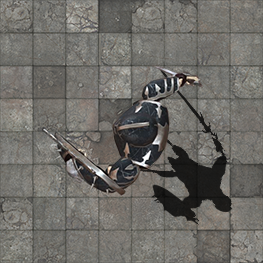
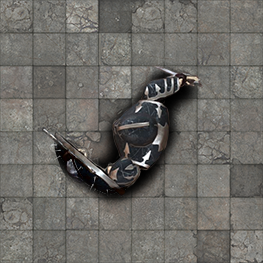
feat: player location and map fill.
Now the game view displays the contents of the api. All the players (including local itself) and objects are shown with its corresponding orientation.

Changed region(s): [[0.1825, 0.2433, 0.8821, 0.8517]]

diff --git a/js/apiCalls.js b/js/apiCalls.js
@@ -1,4 +1,6 @@
 let player = new Player();
+let map = new Array(40).fill(0).map(() => new Array(40).fill(0));  //0: nothing, 1: enemy, 2: object, 3: wall
+let map_direction = new Array(40).fill("-").map(() => new Array(40).fill("-"));  //-: no player
 
 async function fetchSpawn(name) {
     await fetch("http://battlearena.danielamo.info/api/spawn/b89f9719/" + name)
@@ -7,6 +9,8 @@ async function fetchSpawn(name) {
             player.id = data.token;
             player.name = name;
             fetchPlayer(player.id);
+        }).then(() => {
+            console.log("player token attack is: " + player.attack)
         });
 }
 
@@ -22,18 +26,109 @@ function fetchPlayer(token) {
             player.vp = data.vitalpoints;
             player.image = data.image;
             player.object = data.object;
+        }).then(() => {
+            fetchMap(token);
         });
 }
 
-async function fetchh(name) {
-    await fetch("http://battlearena.danielamo.info/api/spawn/b89f9719/" + name)
-        .then(function (response) {
-            if (response.status !== 200) {
-                throw new Error(response.status);
-            }else{
-                console.log(response.json());
-            }
-        })
+function fetchMap(token) {
+    return fetch("http://battlearena.danielamo.info/api/map/b89f9719/" + token)
+        .then(response => response.json())
+        .then(data => {
+            data.enemies.forEach((item) => {
+                let x = item.x;
+                let y = item.y;
+                map[x][y] = 1;
+                map_direction[x][y] = item.direction;
+            });
+            data.objects.forEach((item) => {
+                map[item.x][item.y] = 2;
+            });
+            updateGameView();
+        });
+}
+
+function updateGameView(){
+    let top_left = document.getElementById("top_left");
+    let top_center = document.getElementById("top_center");
+    let top_right = document.getElementById("top_right");
+
+    let center_left = document.getElementById("center_left");
+    let center_center = document.getElementById("center_center");
+    let center_right = document.getElementById("center_right");
+
+    let bottom_left = document.getElementById("bottom_left");
+    let bottom_center = document.getElementById("bottom_center");
+    let bottom_right = document.getElementById("bottom_right");
+
+    center_center.setAttribute("style", 'background-image: url("assets/options/character.png");background-repeat: no-repeat;background-size: 101%;transform:rotate('+ orientationFactor(player.direction) +'deg);');
+    //document.querySelector("html").setAttribute("style", 'background-image: url("../assets/options/enemy.png");background-repeat: no-repeat;background-size: 101%;');
+
+    if(map[player.x-1][player.y-1] === 1){
+        top_left.setAttribute("style", 'background-image: url("assets/options/enemy.png");background-repeat: no-repeat;background-size: 101%;transform:rotate('+ orientationFactor(map_direction[player.x-1][player.y-1]) +'deg);');
+    } else if(map[player.x-1][player.y-1] === 2){
+        top_left.setAttribute("style", 'background-image: url("assets/options/loot.png");background-repeat: no-repeat;background-size: 101%;');
+    } else {
+        top_left.setAttribute("style", 'background-image: url("assets/options/nothing.png");background-repeat: no-repeat;background-size: 101%;');
+    }
+
+    if(map[player.x-1][player.y] === 1){
+        top_center.setAttribute("style", 'background-image: url("assets/options/enemy.png");background-repeat: no-repeat;background-size: 101%;transform:rotate('+ orientationFactor(map_direction[player.x-1][player.y]) +'deg);');
+    } else if(map[player.x-1][player.y] === 2){
+        top_center.setAttribute("style", 'background-image: url("assets/options/loot.png");background-repeat: no-repeat;background-size: 101%;');
+    } else {
+        top_center.setAttribute("style", 'background-image: url("assets/options/nothing.png");background-repeat: no-repeat;background-size: 101%;');
+    }
+
+    if(map[player.x-1][Number(player.y)+1] === 1){
+        top_right.setAttribute("style", 'background-image: url("assets/options/enemy.png");background-repeat: no-repeat;background-size: 101%;transform:rotate('+ orientationFactor(map_direction[player.x-1][Number(player.y)+1]) +'deg);');
+    } else if(map[player.x-1][Number(player.y)+1] === 2){
+        top_right.setAttribute("style", 'background-image: url("assets/options/loot.png");background-repeat: no-repeat;background-size: 101%;');
+    } else {
+        top_right.setAttribute("style", 'background-image: url("assets/options/nothing.png");background-repeat: no-repeat;background-size: 101%;');
+    }
+
+
+    if(map[player.x][player.y-1] === 1){
+        center_left.setAttribute("style", 'background-image: url("assets/options/enemy.png");background-repeat: no-repeat;background-size: 101%;transform:rotate('+ orientationFactor(map_direction[player.x][player.y-1]) +'deg);');
+    } else if(map[player.x][player.y-1] === 2){
+        center_left.setAttribute("style", 'background-image: url("assets/options/loot.png");background-repeat: no-repeat;background-size: 101%;');
+    } else {
+        center_left.setAttribute("style", 'background-image: url("assets/options/nothing.png");background-repeat: no-repeat;background-size: 101%;');
+    }
+
+    if(map[player.x][Number(player.y)+1] === 1){
+        center_right.setAttribute("style", 'background-image: url("assets/options/enemy.png");background-repeat: no-repeat;background-size: 101%;transform:rotate('+ orientationFactor(map_direction[player.x][Number(player.y)+1]) +'deg);');
+    } else if(map[player.x][Number(player.y)+1] === 2){
+        center_right.setAttribute("style", 'background-image: url("assets/options/loot.png");background-repeat: no-repeat;background-size: 101%;');
+    } else {
+        center_right.setAttribute("style", 'background-image: url("assets/options/nothing.png");background-repeat: no-repeat;background-size: 101%;');
+    }
+
+
+    if(map[Number(player.x)+1][player.y-1] === 1){
+        bottom_left.setAttribute("style", 'background-image: url("assets/options/enemy.png");background-repeat: no-repeat;background-size: 101%;transform:rotate('+ orientationFactor(map_direction[Number(player.x)+1][player.y-1]) +'deg);');
+    } else if(map[Number(player.x)+1][player.y-1] === 2){
+        bottom_left.setAttribute("style", 'background-image: url("assets/options/loot.png");background-repeat: no-repeat;background-size: 101%;');
+    } else {
+        bottom_left.setAttribute("style", 'background-image: url("assets/options/nothing.png");background-repeat: no-repeat;background-size: 101%;');
+    }
+
+    if(map[Number(player.x)+1][player.y] === 1){
+        bottom_center.setAttribute("style", 'background-image: url("assets/options/enemy.png");background-repeat: no-repeat;background-size: 101%;transform:rotate('+ orientationFactor(map_direction[Number(player.x)+1][player.y]) +'deg);');
+    } else if(map[Number(player.x)+1][player.y] === 2){
+        bottom_center.setAttribute("style", 'background-image: url("assets/options/loot.png");background-repeat: no-repeat;background-size: 101%;');
+    } else {
+        bottom_center.setAttribute("style", 'background-image: url("assets/options/nothing.png");background-repeat: no-repeat;background-size: 101%;');
+    }
+
+    if(map[Number(player.x)+1][Number(player.y)+1] === 1){
+        bottom_right.setAttribute("style", 'background-image: url("assets/options/enemy.png");background-repeat: no-repeat;background-size: 101%;transform:rotate('+ orientationFactor(map_direction[Number(player.x)+1][Number(player.y)+1]) +'deg);');
+    } else if(map[Number(player.x)+1][Number(player.y)+1] === 2){
+        bottom_right.setAttribute("style", 'background-image: url("assets/options/loot.png");background-repeat: no-repeat;background-size: 101%;');
+    } else {
+        bottom_right.setAttribute("style", 'background-image: url("assets/options/nothing.png");background-repeat: no-repeat;background-size: 101%;');
+    }
 }
 
 function fetchRespawn(token) {
@@ -46,10 +141,7 @@ function fetchPlayersObjects(token) {
         .then(response => response.json());
 }
 
-function fetchMap(token) {
-    return fetch("http://battlearena.danielamo.info/api/map/b89f9719/" + token)
-        .then(response => response.json());
-}
+
 
 function fetcMove(token, direccion) {
     return fetch("http://battlearena.danielamo.info/api/move/b89f9719/" + token + "/" + direccion)
@@ -69,4 +161,19 @@ function fetchCraft(token) {
 function fetchPickup(token) {
     return fetch("http://battlearena.danielamo.info/api/pickup/b89f9719/" + token)
         .then(response => response.json());
+}
+
+/*async function fetchh(name) {
+    await fetch("http://battlearena.danielamo.info/api/spawn/b89f9719/" + name)
+        .then(function (response) {
+            if (response.status !== 200) {
+                throw new Error(response.status);
+            }else{
+                console.log(response.json());
+            }
+        })
+}*/
+
+function getPlayer(){
+    return player;
 }

diff --git a/js/main.js b/js/main.js
@@ -1,5 +1,8 @@
 let newPlayerButton = document.getElementById("new_player");
 newPlayerButton.addEventListener("click", () => {
+    //document.querySelector("html").setAttribute("style", 'background-image: url("assets/options/cracks.gif");background-repeat: no-repeat;background-size: 101%;');
     let name = document.getElementById("input_name").value;
-    fetchSpawn(name);
+    fetchSpawn(name).then(() => {
+        console.log("Player attakkked: " + getPlayer().attack);
+    });
 });

diff --git a/js/utils.js b/js/utils.js
@@ -1,0 +1,15 @@
+function orientationFactor(orientation){
+    switch (orientation) {
+        case "N":
+            return 90;
+        case "S":
+            return -90;
+            break;
+        case "W":
+            return 0;
+            break;
+        case "E":
+            return 180;
+            break;
+    }
+}

diff --git a/main.html b/main.html
@@ -7,6 +7,7 @@
         <script defer src="js/main.js"></script>
         <script defer src="js/player.js"></script>
         <script defer src="js/apiCalls.js"></script>
+        <script defer src="js/utils.js"></script>
         <title>BattleArenaWeb</title>
     </head>
     <body>
